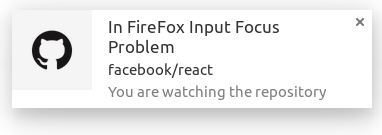
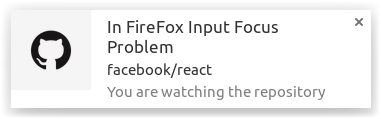
Update image and drop some unneeded info

diff --git a/readme.md b/readme.md
@@ -4,7 +4,7 @@
 
 It checks the GitHub Notifications API every minute.
 
-#### Features:
+#### Features
 * GitHub Enterprise support
 * Show unread count for issues you're participating in
 * Desktop notifications
@@ -36,16 +36,15 @@ If you want to receive desktop notifications, you can enable them on extension o
 ## Desktop notifications
 
 Notifications look like simple cards with optional image and some text content in them.
+
+![](screenshot-notification.png)
+
 You can opt-in to receive notifications to be better informed about things that
 are important to you.
 
 Notifier for GitHub checks for new notifications every minute, and if it will display notification that arrived after the last check if there are any.
 
-If there are more than 3 new notifications, Chrome will show first 3, and queue up the rest to
-show them when either first 3 disappear or closed.
-
 Clicking on notification opens GitHub URL of the notification subject.
-URL is fetched lazily on notification click, so there is no requests performed unless actually needed.
 
 ## Related
 
